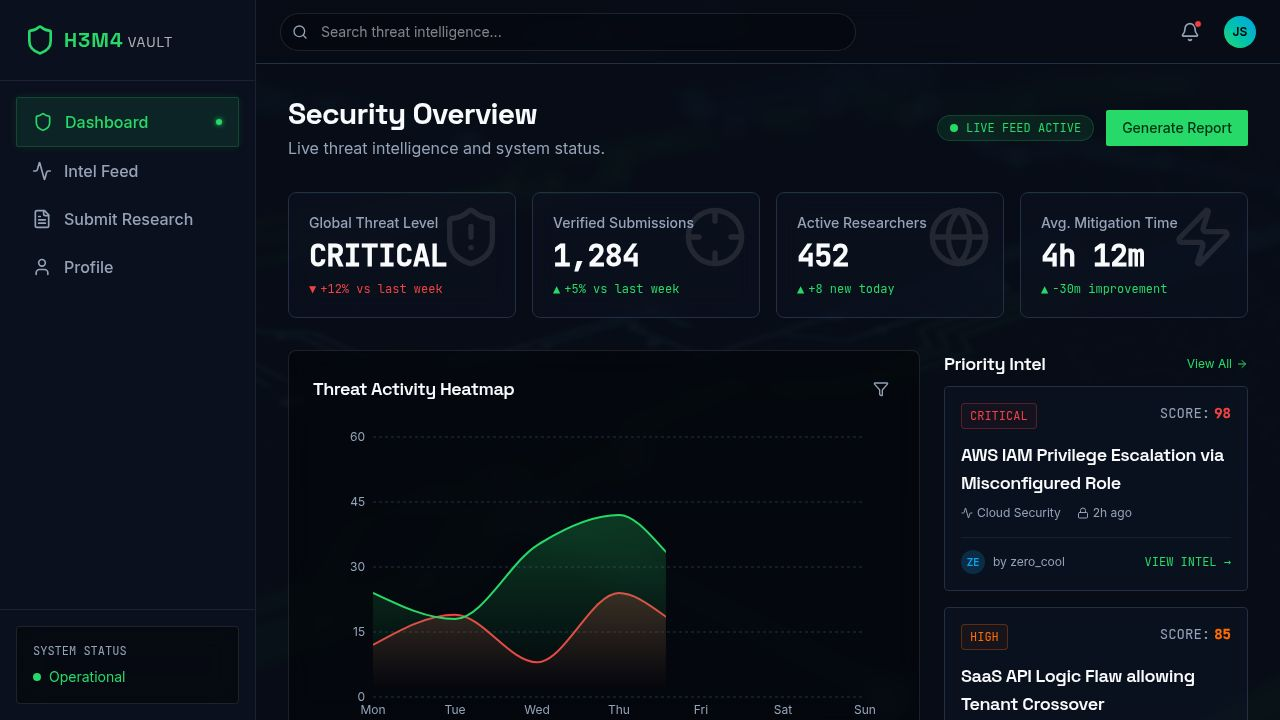
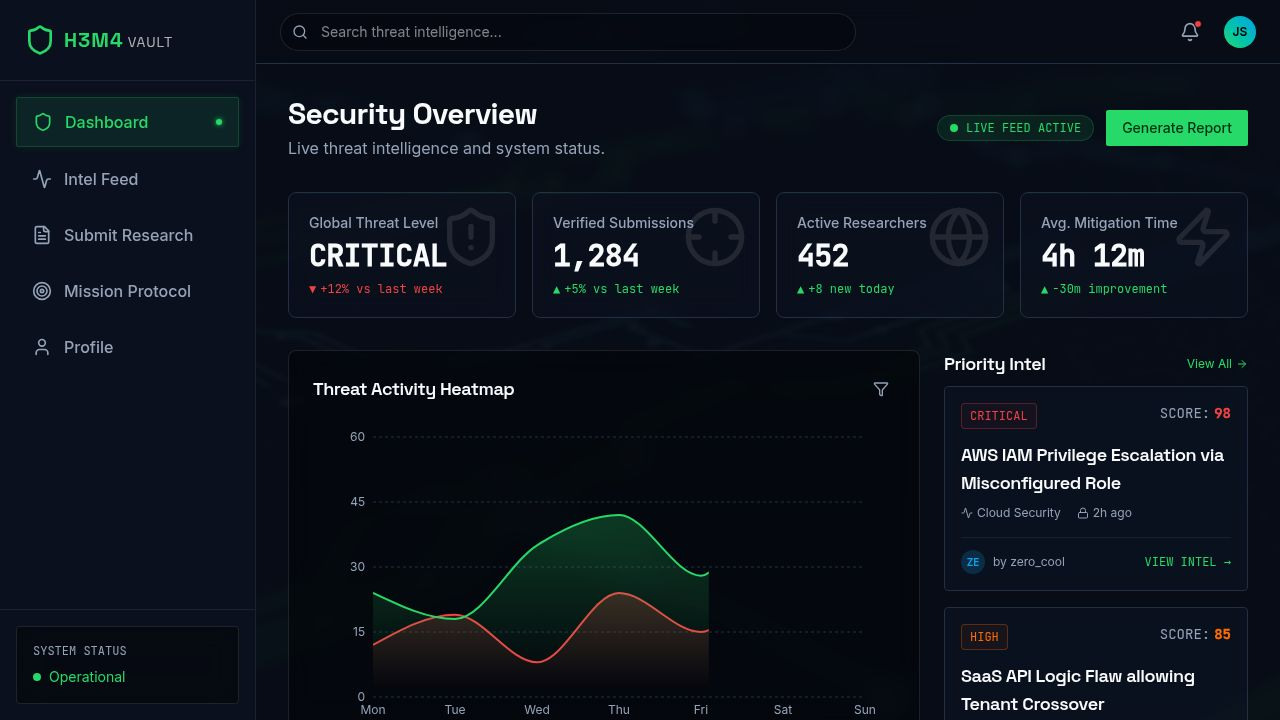
Add a mission protocol page and navigation link
Create a new "Mission Protocol" page detailing the platform's purpose and add a corresponding navigation link to the sidebar in `App.tsx` and `layout.tsx`. A new route for the mission page is also added.

Replit-Commit-Author: Agent
Replit-Commit-Session-Id: 1b03504f-614b-4653-a5a8-a5eef2f0f6ae
Replit-Commit-Checkpoint-Type: full_checkpoint
Replit-Commit-Event-Id: f538b6aa-c443-47da-8be3-2b7b11061395
Replit-Commit-Screenshot-Url: https://storage.googleapis.com/screenshot-production-us-central1/f37a8576-c814-4b44-a6f4-95ebba9a34c9/1b03504f-614b-4653-a5a8-a5eef2f0f6ae/FfapZyN
Replit-Helium-Checkpoint-Created: true

diff --git a/client/src/pages/mission.tsx b/client/src/pages/mission.tsx
@@ -1,0 +1,82 @@
+import { Terminal, ShieldAlert, Zap, Lock, Globe } from "lucide-react";
+import { motion } from "framer-motion";
+
+export default function Mission() {
+  return (
+    <div className="max-w-4xl mx-auto space-y-12 animate-in fade-in slide-in-from-bottom-8 duration-500 pb-12">
+      <div className="text-center space-y-4">
+        <motion.div 
+          initial={{ scale: 0.9, opacity: 0 }}
+          animate={{ scale: 1, opacity: 1 }}
+          transition={{ duration: 0.5 }}
+          className="inline-flex items-center justify-center p-4 rounded-full bg-primary/10 ring-1 ring-primary/30 mb-2"
+        >
+          <Terminal className="h-8 w-8 text-primary" />
+        </motion.div>
+        <h1 className="text-4xl md:text-5xl font-heading font-bold tracking-tight">The H3M4 Protocol</h1>
+        <p className="text-xl text-muted-foreground max-w-2xl mx-auto">
+          Bridging the gap between independent security research and enterprise defense.
+        </p>
+      </div>
+
+      <div className="grid grid-cols-1 md:grid-cols-2 gap-8">
+        {/* Problem Statement */}
+        <div className="glass-panel p-8 rounded-xl relative overflow-hidden group">
+          <div className="absolute top-0 right-0 p-4 opacity-10 group-hover:opacity-20 transition-opacity">
+            <ShieldAlert className="h-32 w-32" />
+          </div>
+          <h2 className="text-2xl font-heading font-bold mb-4 text-destructive">The Disconnect</h2>
+          <div className="space-y-4 text-muted-foreground leading-relaxed">
+            <p>
+              <strong className="text-foreground">Cybersecurity research is fragmented.</strong> Valuable insights produced by hackers and independent researchers are often unverified and difficult for businesses to operationalize.
+            </p>
+            <p>
+              Most organizations rely on <strong className="text-foreground">reactive measures</strong>—periodic audits and bug bounties that only address vulnerabilities after they exist. This leaves a critical gap where emerging threats go unnoticed until it's too late.
+            </p>
+            <p>
+              Meanwhile, genuine researchers lack a trusted platform to validate their work, gain recognition, and earn a sustainable income, driving talent underground.
+            </p>
+          </div>
+        </div>
+
+        {/* Solution Statement */}
+        <div className="glass-panel p-8 rounded-xl relative overflow-hidden group border-primary/30">
+          <div className="absolute top-0 right-0 p-4 opacity-10 group-hover:opacity-20 transition-opacity">
+            <Zap className="h-32 w-32 text-primary" />
+          </div>
+          <h2 className="text-2xl font-heading font-bold mb-4 text-primary">The Solution</h2>
+          <div className="space-y-4 text-muted-foreground leading-relaxed">
+            <p>
+              <strong className="text-foreground">H3M4 Security Vault</strong> is the missing link. We convert real-world security research into verified, business-ready threat intelligence.
+            </p>
+            <p>
+              We provide a system that ensures <strong className="text-foreground">ethical disclosure</strong> and <strong className="text-foreground">fair compensation</strong>, creating a symbiotic relationship between researchers and enterprises.
+            </p>
+            <p>
+              By validating and structuring this data, we enable proactive defense against emerging attack patterns before they become widespread exploits.
+            </p>
+          </div>
+        </div>
+      </div>
+
+      {/* Core Values / Pillars */}
+      <div className="grid grid-cols-1 md:grid-cols-3 gap-6">
+        <div className="bg-card/30 border border-border p-6 rounded-lg text-center hover:bg-card/50 transition-colors">
+          <Lock className="h-10 w-10 text-secondary mx-auto mb-4" />
+          <h3 className="text-lg font-bold mb-2">Verified Intelligence</h3>
+          <p className="text-sm text-muted-foreground">Every submission is rigorously tested and scored before reaching the enterprise feed.</p>
+        </div>
+        <div className="bg-card/30 border border-border p-6 rounded-lg text-center hover:bg-card/50 transition-colors">
+          <Globe className="h-10 w-10 text-primary mx-auto mb-4" />
+          <h3 className="text-lg font-bold mb-2">Global Community</h3>
+          <p className="text-sm text-muted-foreground">Uniting the world's best ethical hackers with forward-thinking security teams.</p>
+        </div>
+        <div className="bg-card/30 border border-border p-6 rounded-lg text-center hover:bg-card/50 transition-colors">
+          <Zap className="h-10 w-10 text-yellow-500 mx-auto mb-4" />
+          <h3 className="text-lg font-bold mb-2">Proactive Defense</h3>
+          <p className="text-sm text-muted-foreground">Shifting the industry from reactive patching to predictive threat mitigation.</p>
+        </div>
+      </div>
+    </div>
+  );
+}

diff --git a/client/src/components/layout.tsx b/client/src/components/layout.tsx
@@ -1,5 +1,5 @@
 import { Link, useLocation } from "wouter";
-import { Shield, Activity, FileText, User, Search, Bell, Menu } from "lucide-react";
+import { Shield, Activity, FileText, User, Search, Bell, Menu, Target } from "lucide-react";
 import { cn } from "@/lib/utils";
 import heroBg from '@assets/generated_images/abstract_cyberpunk_security_background.png';
 
@@ -10,6 +10,7 @@ export default function Layout({ children }: { children: React.ReactNode }) {
     { icon: Shield, label: "Dashboard", href: "/" },
     { icon: Activity, label: "Intel Feed", href: "/intel" },
     { icon: FileText, label: "Submit Research", href: "/submit" },
+    { icon: Target, label: "Mission Protocol", href: "/mission" },
     { icon: User, label: "Profile", href: "/profile" },
   ];
 

diff --git a/client/src/App.tsx b/client/src/App.tsx
@@ -9,12 +9,14 @@ import Dashboard from "@/pages/dashboard";
 import IntelFeed from "@/pages/intel-feed";
 import SubmitResearch from "@/pages/submit";
 import Profile from "@/pages/profile";
+import Mission from "@/pages/mission";
 
 function Router() {
   return (
     <Layout>
       <Switch>
         <Route path="/" component={Dashboard}/>
+        <Route path="/mission" component={Mission}/>
         <Route path="/intel" component={IntelFeed}/>
         <Route path="/submit" component={SubmitResearch}/>
         <Route path="/profile" component={Profile}/>
